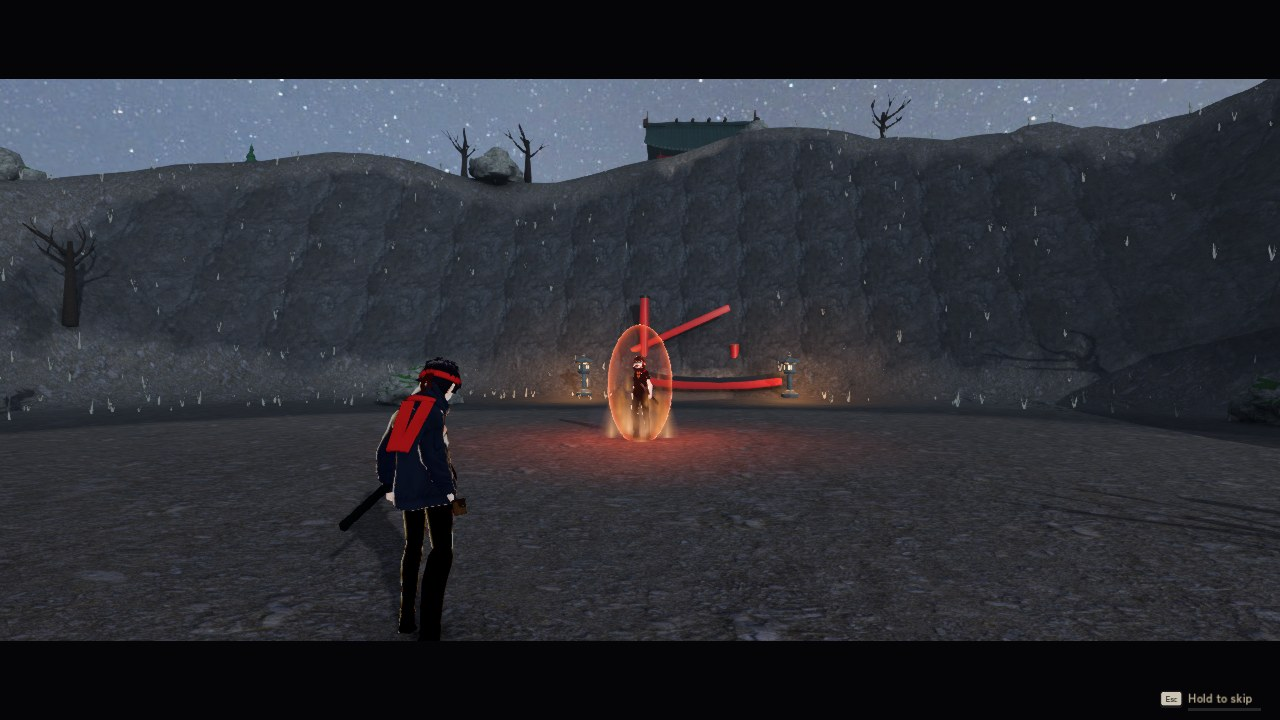
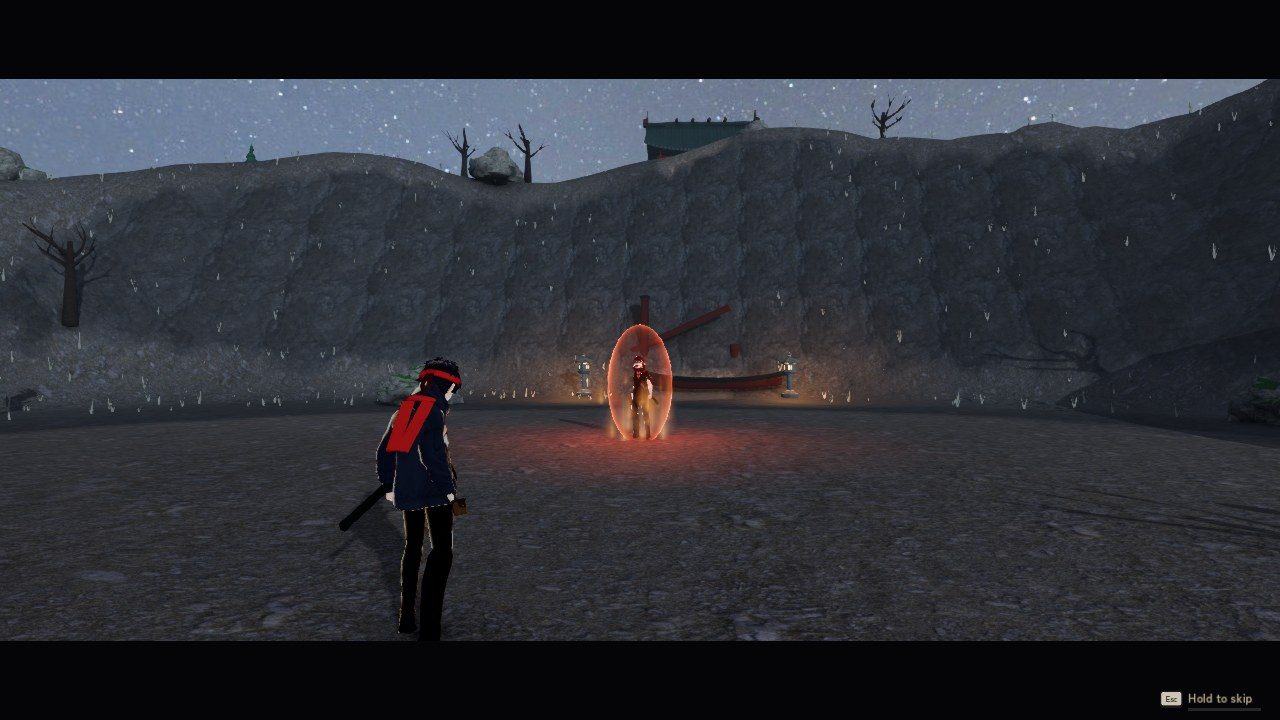
The Ashen Pass's broken torii is charred, not lacquer-bright
Its snapped post and fallen crossbeam stood out bright red against the
dark cliff at night and read as red rods floating around Kagerou in his
entrance (and in the teaser). Props can now take a tint, and the burned
island's gate is darkened to charred wood. The temporary --rods listing
is gone; --hide stays as a way to find what draws something in a shot.

Claude-Session: https://claude.ai/code/session_01DqBv8oL4a9RnAAVXx332Bi

Changed region(s): [[0.4688, 0.5194, 0.625, 0.6111], [0.4688, 0.3972, 0.5625, 0.4889]]

diff --git a/README.md b/README.md
@@ -29,7 +29,7 @@ controls can be remapped.
 | ![Pause → Map: the islands charted, found ones named and travelled to](docs/images/world_map.jpg) | ![Pause → Quests: the story mission, a side quest under way, one on offer and two done](docs/images/world_quests.jpg) |
 | ![The Kenjutsu skill tree beside your shinobi on a lit stage, katana drawn](docs/images/skills_kenjutsu.jpg) | ![The Dojutsu skill tree: the camera pushes in on your face with your eyes open](docs/images/skills_dojutsu.jpg) |
 
-![Story mode, chapter 2, The Ashen Trail: Kagerou wreathed in fire on a snowy night](docs/images/story_night.jpg)
+![Story mode, chapter 2, The Ashen Trail: Kagerou wreathed in fire on a snowy night, before the burned torii of the Ashen Pass](docs/images/story_night.jpg)
 
 ![Weaving seals on a controller: each seal stamped as a talisman with its zodiac kanji and the buttons that make it; a fuse burns down the timing window and the next seal is hinted](docs/images/weaving.jpg)
 
